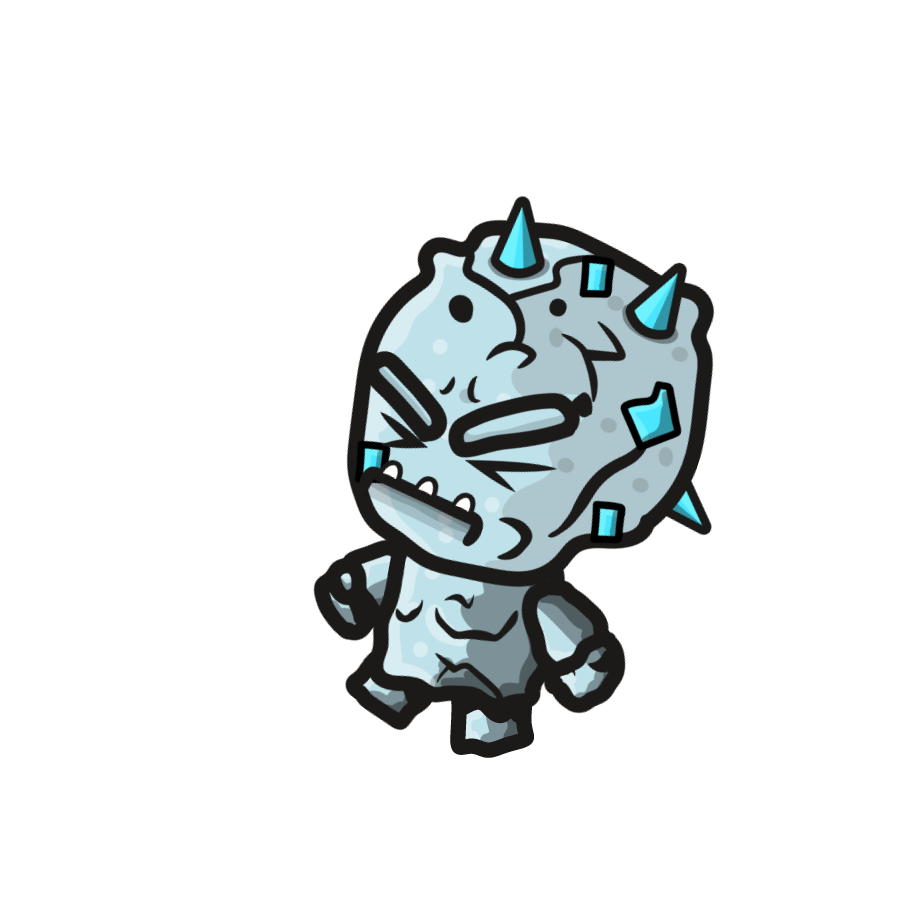
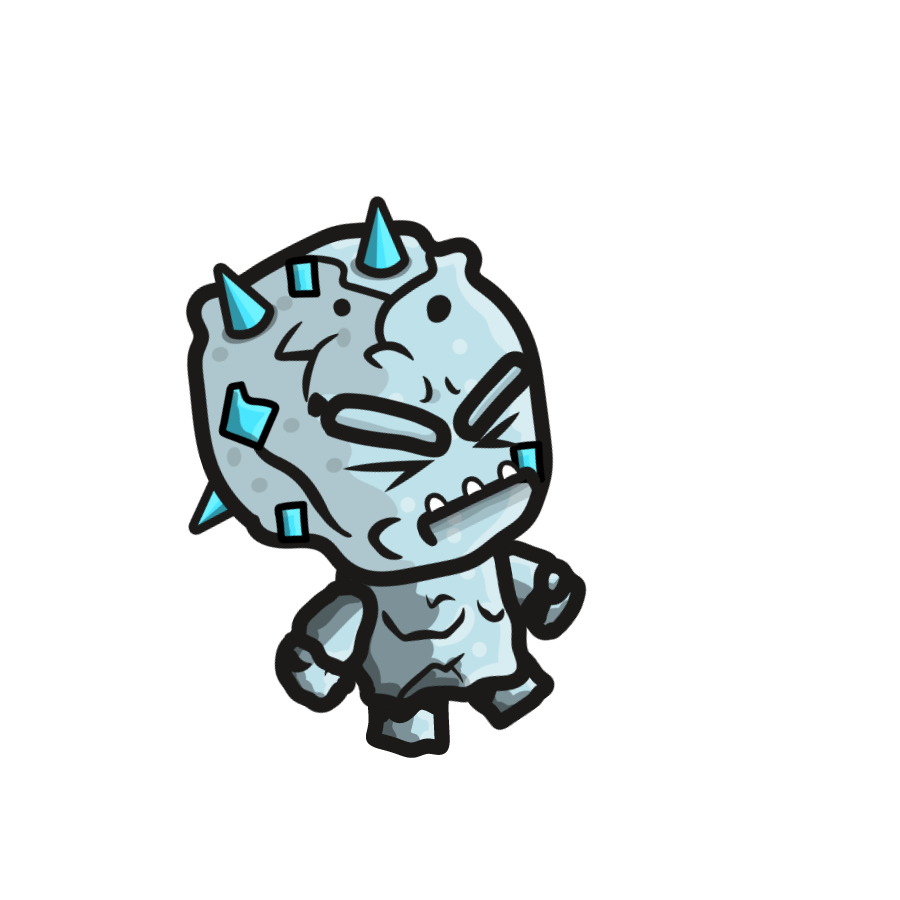
Bug Fix: the hurting and dying animation is now in the right direction.

Changed region(s): [[0.1867, 0.2178, 0.8089, 0.84]]

diff --git a/TheNecromancer/models/endboss.class.js b/TheNecromancer/models/endboss.class.js
@@ -15,6 +15,7 @@ class Endboss extends Model{
     idleAnimationDirection = 1;
     walkAnimationDirection = 1;
     otherDirection = true;
+    originalDirection = true;
     lastDamageTime = 0;
     
     constructor(){
@@ -37,6 +38,7 @@ class Endboss extends Model{
         this.positionY = 100;
         this.width = 525;
         this.height = 400;
+        this.originalDirection = this.otherDirection;
         this.animate();
         this.checkCharacterDistance();
     }
@@ -53,15 +55,18 @@ class Endboss extends Model{
         this.lastHit = now;
         this.isHurt = true;
         this.currentHurtImage = 0;
+        this.otherDirection = false;
         
         if (this.health <= 0) {
             this.isDead = true;
             this.isHurt = false;
             this.currentDyingImage = 0;
+            this.otherDirection = false;
         }
         
         setTimeout(() => {
             this.isHurt = false;
+            this.otherDirection = this.originalDirection;
         }, 600);
     }
 

diff --git a/TheNecromancer/models/world.class.js b/TheNecromancer/models/world.class.js
@@ -236,9 +236,9 @@ addToMap(mo) {
     }
     
     if (mo instanceof Endboss) {
-        if (mo.isDead || mo.isHurt) {
+        if (mo.isDead) {
             this.drawFrameModel(mo);
-        } else if (mo.otherDirection) {
+        } else if (mo.otherDirection || mo.isHurt) {
             this.flipImageBack(mo);
         } else {
             this.drawFrameModel(mo);
